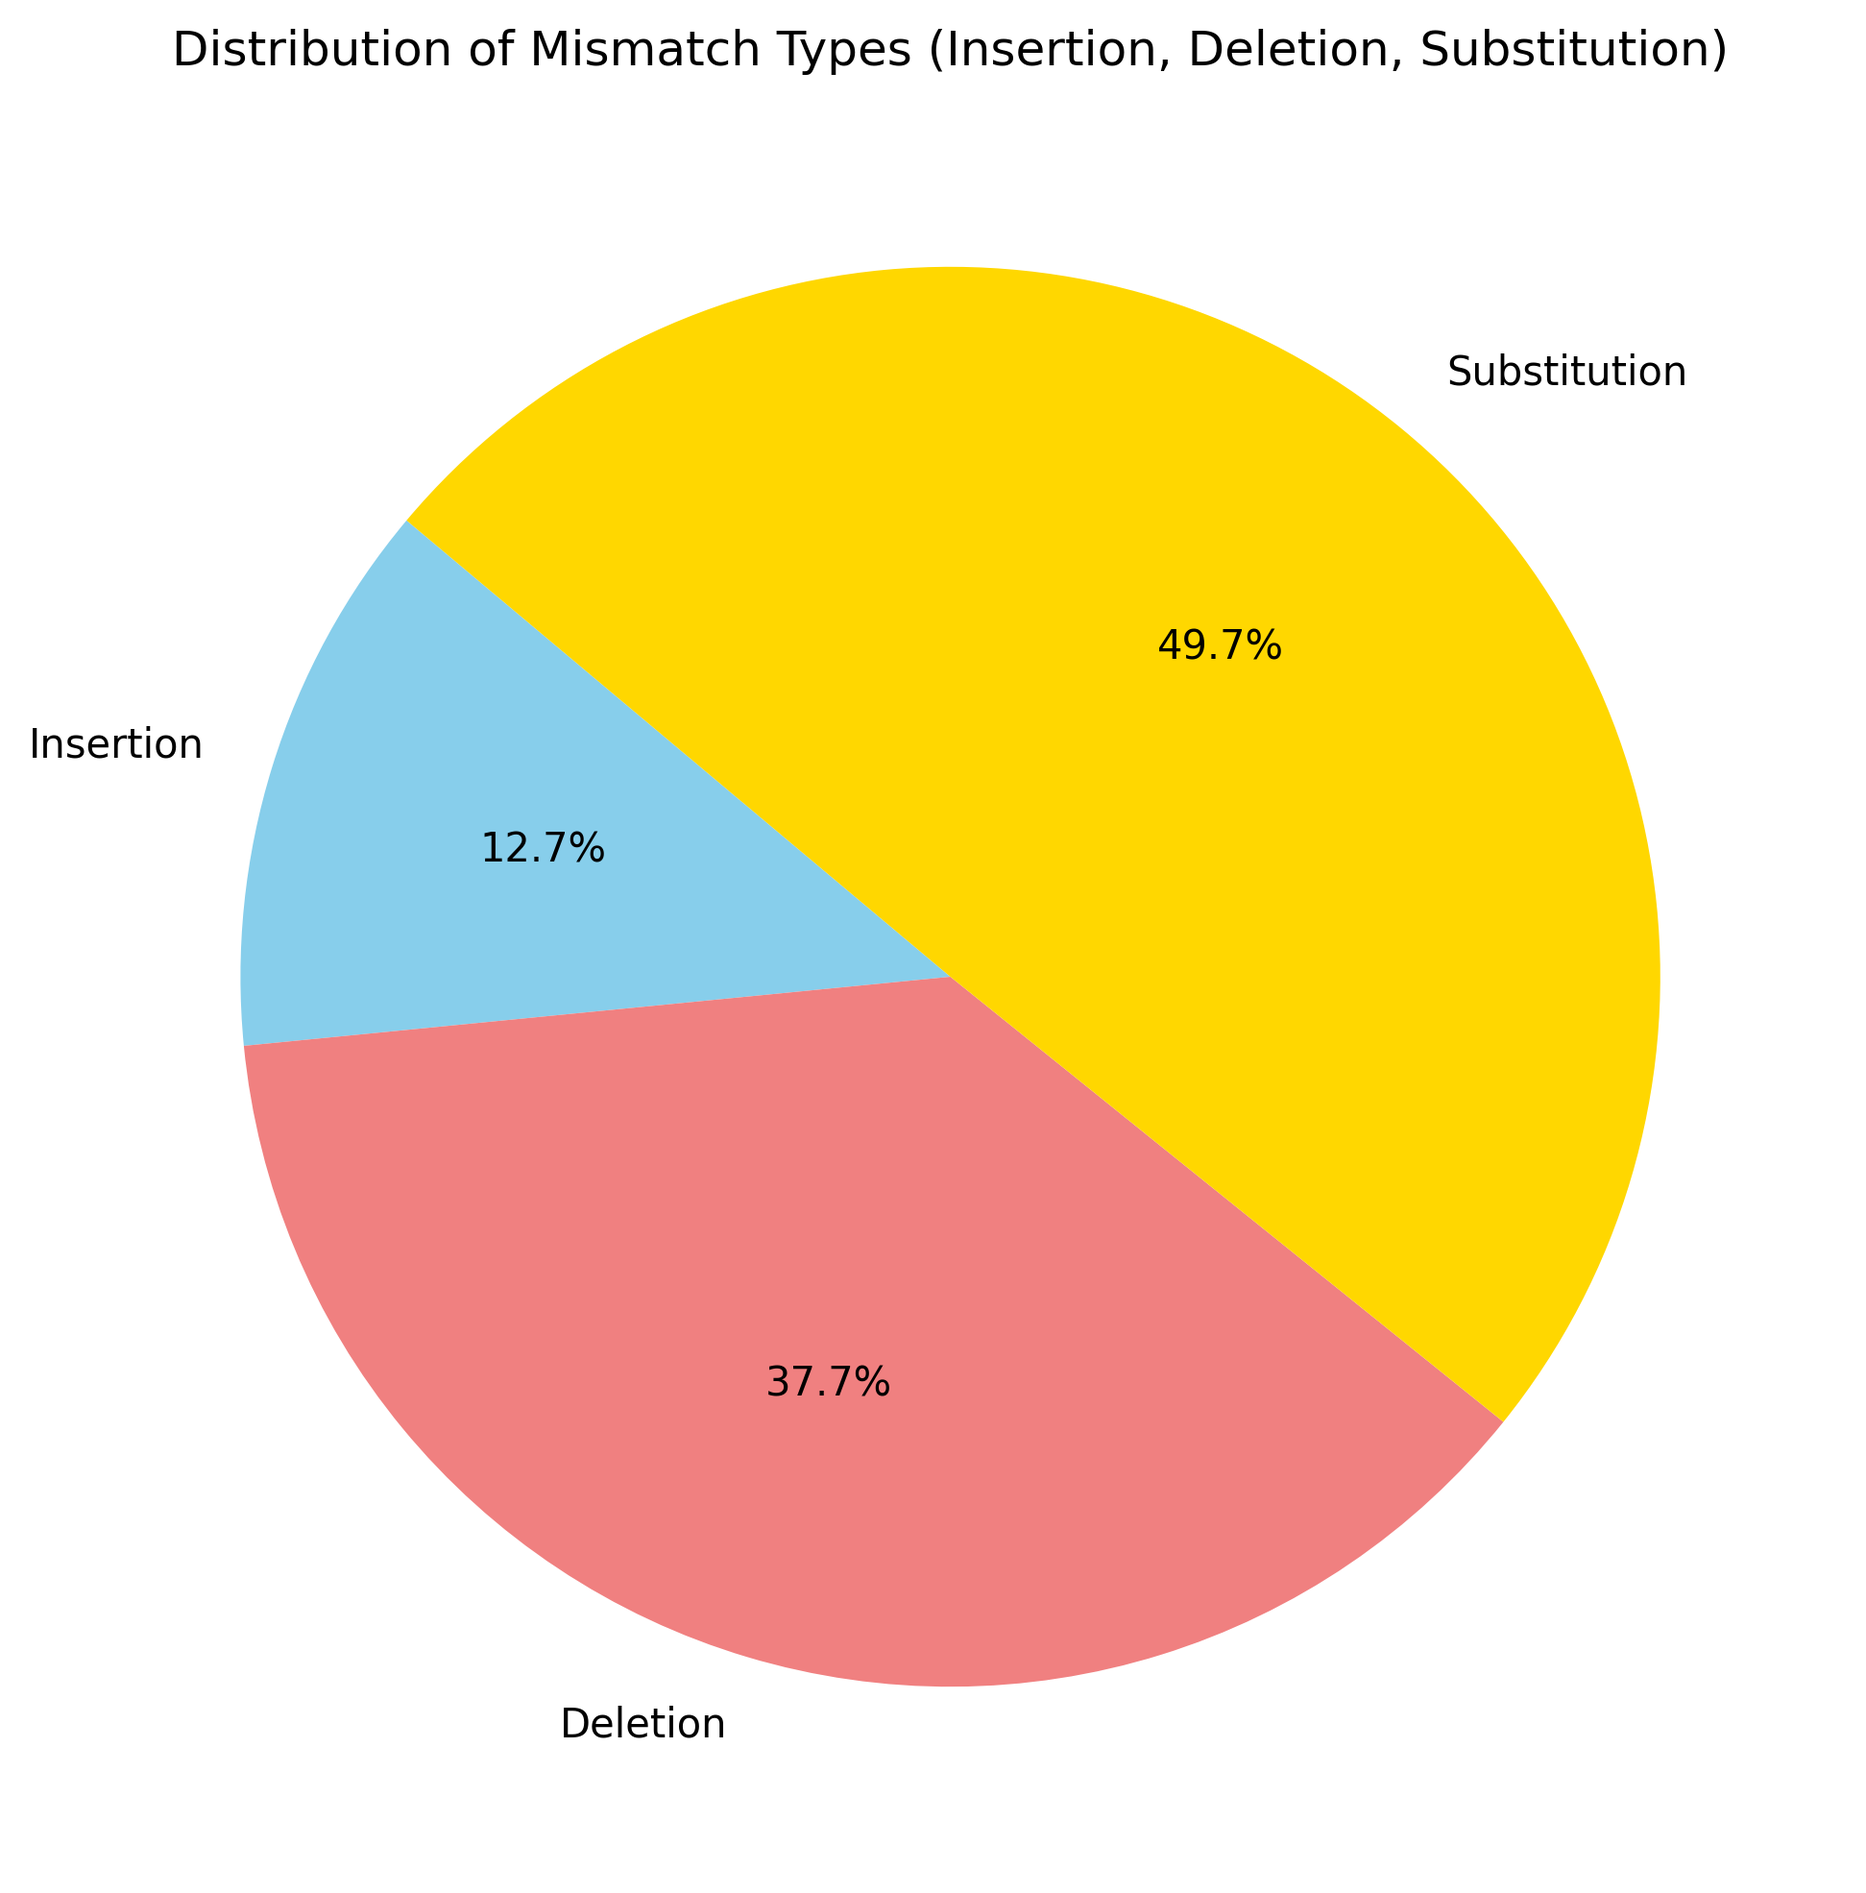
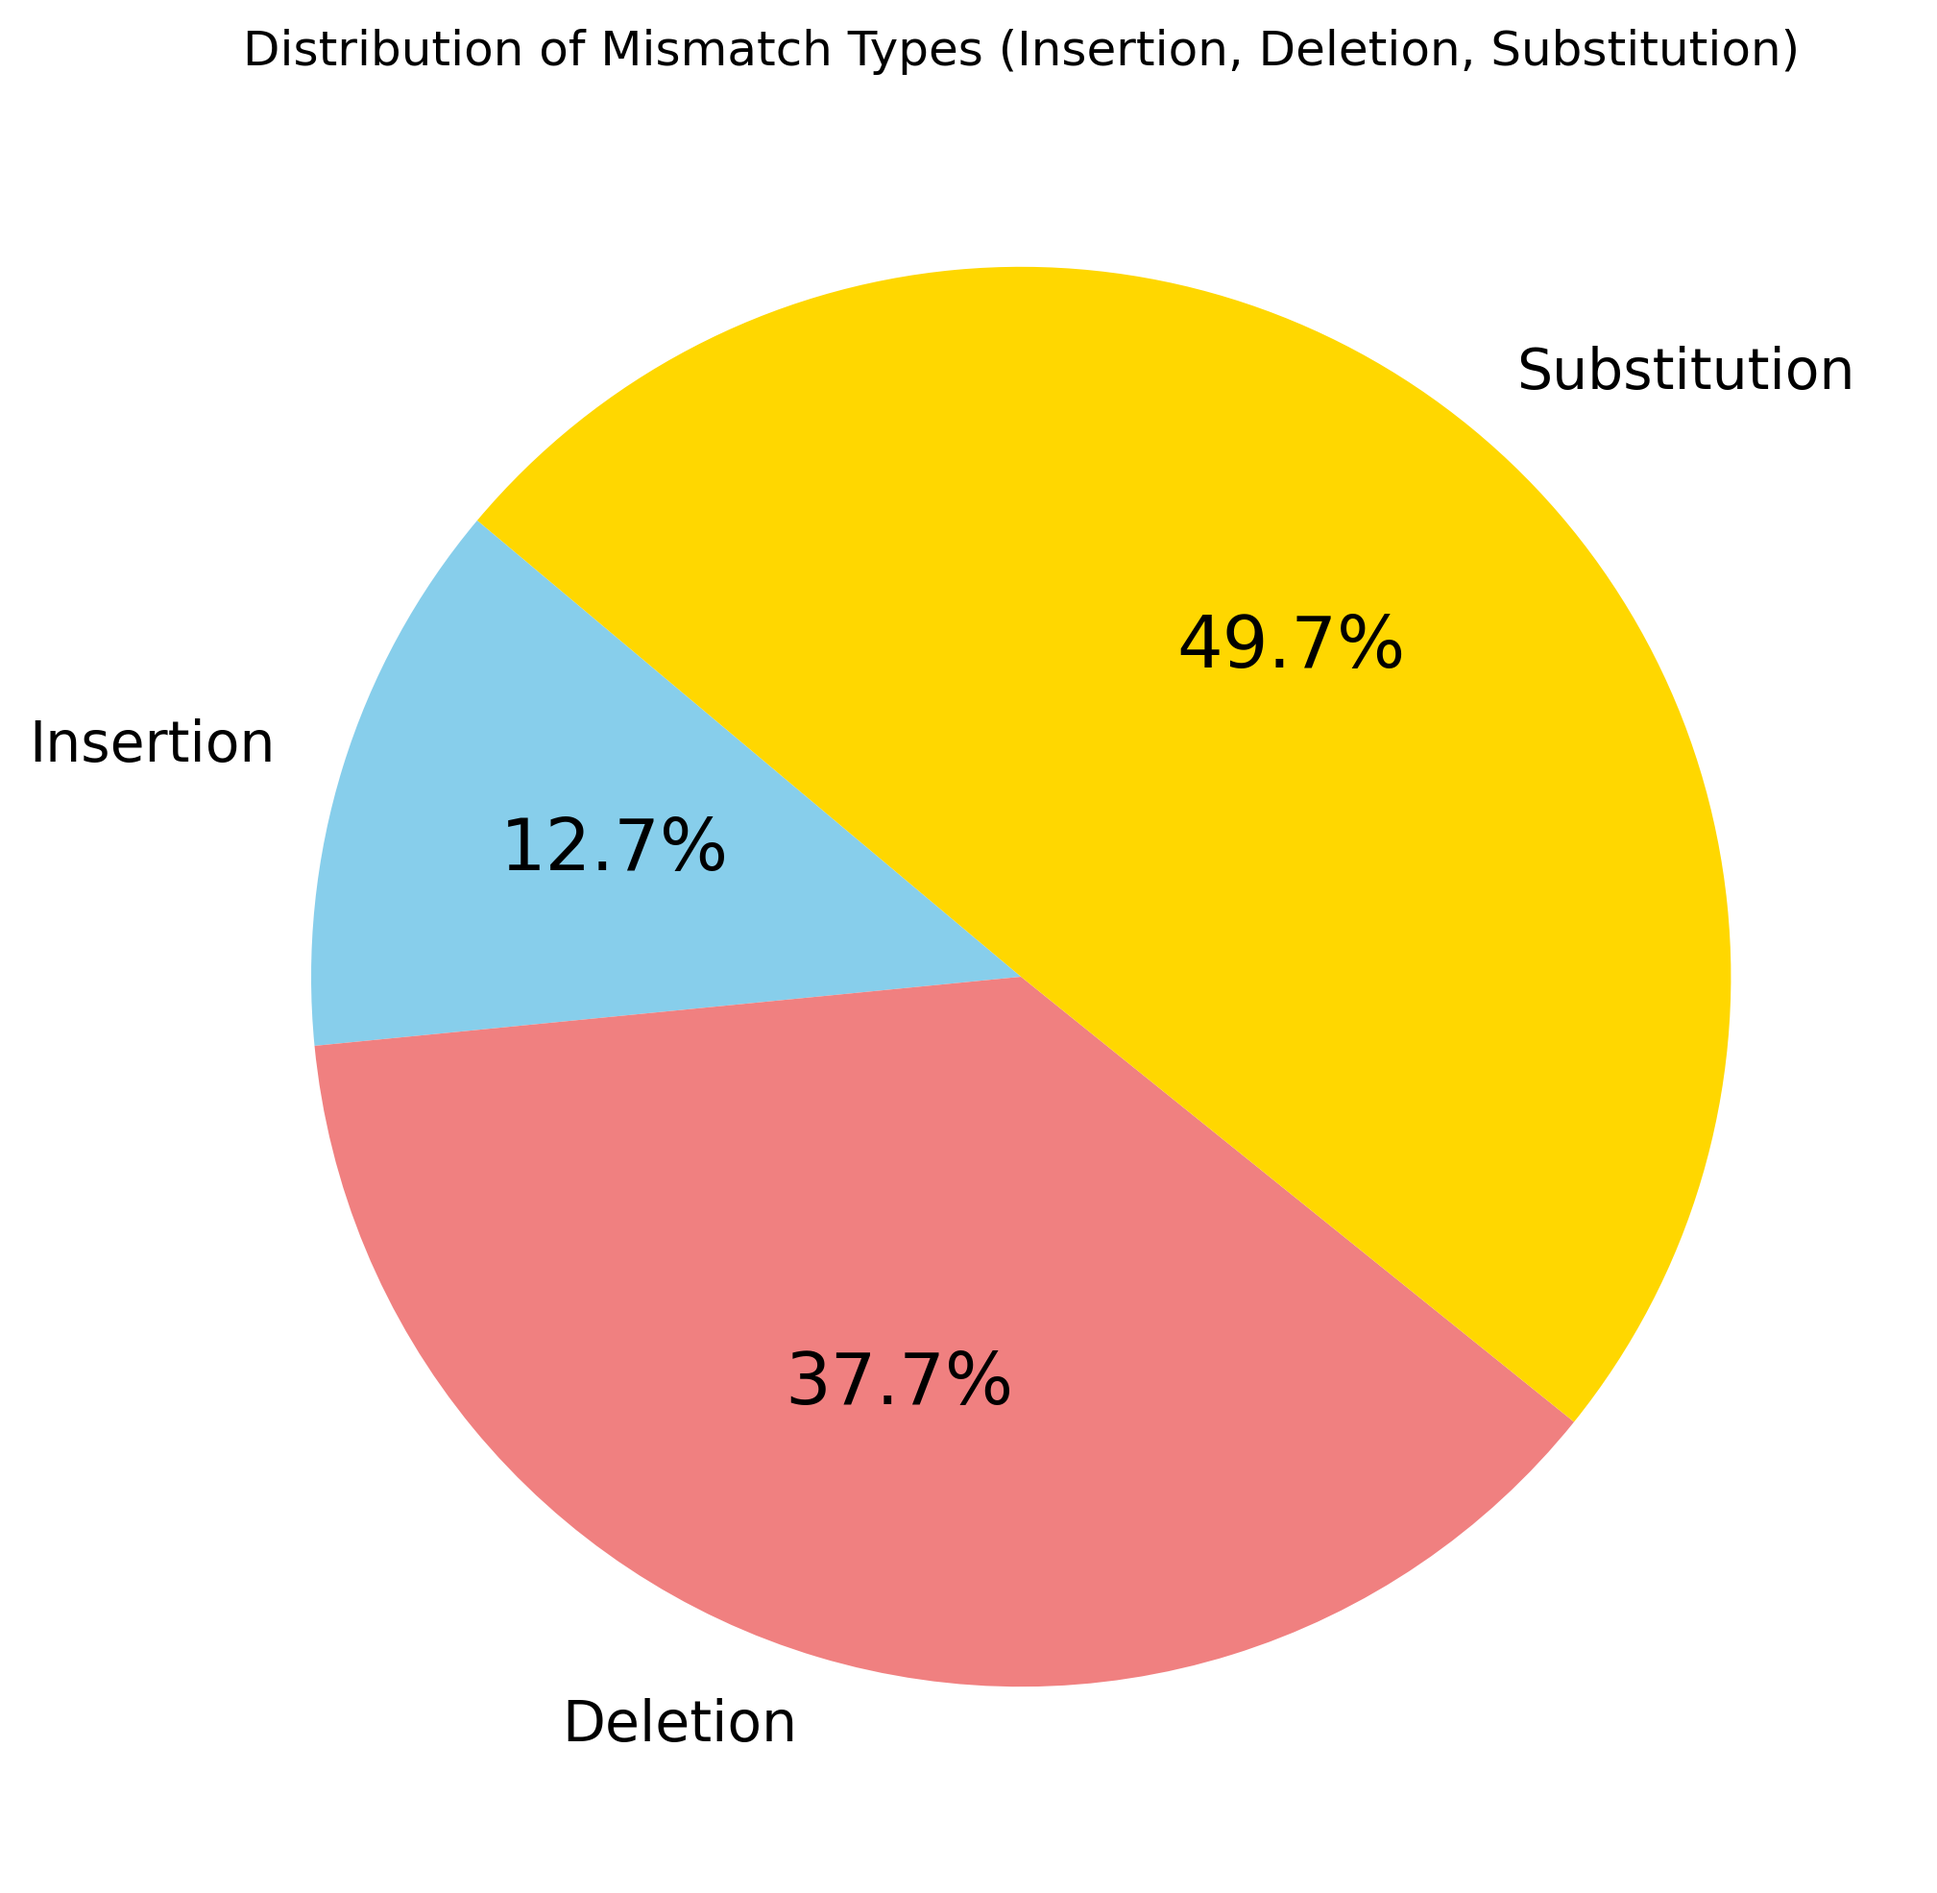
Increased Pie Chart Font Size

diff --git a/extract_dissimilar_cols.py b/extract_dissimilar_cols.py
@@ -52,10 +52,22 @@ def analyze_and_visualize_mismatches(alignment, mode_mismatch_positions):
     colors = ['skyblue', 'lightcoral', 'gold']
 
     plt.figure(figsize=(8, 8))
-    plt.pie(sizes, labels=labels, autopct='%1.1f%%', startangle=140, colors=colors)
+    _, _, autotexts = plt.pie(
+    sizes, 
+    labels=labels, 
+    autopct='%1.1f%%', 
+    startangle=140, 
+    colors=colors,
+    textprops={'fontsize': 14}  # Set font size for labels and percentages
+    )
+
+    # Manually adjust the font size of the percentage text
+    for autotext in autotexts:
+        autotext.set_fontsize(18)  # Increase the font size of percentage labels
+        autotext.set_color('black')  # Optional: Set the color of the percentage text
+
     plt.title('Distribution of Mismatch Types (Insertion, Deletion, Substitution)')
     plt.savefig('Output_Files\\mismatch_types_pie_chart.png', dpi=300, bbox_inches='tight')
-    plt.close()
 
     print("Pie chart saved to 'Output_Files\\mismatch_types_pie_chart.png'.")
 
